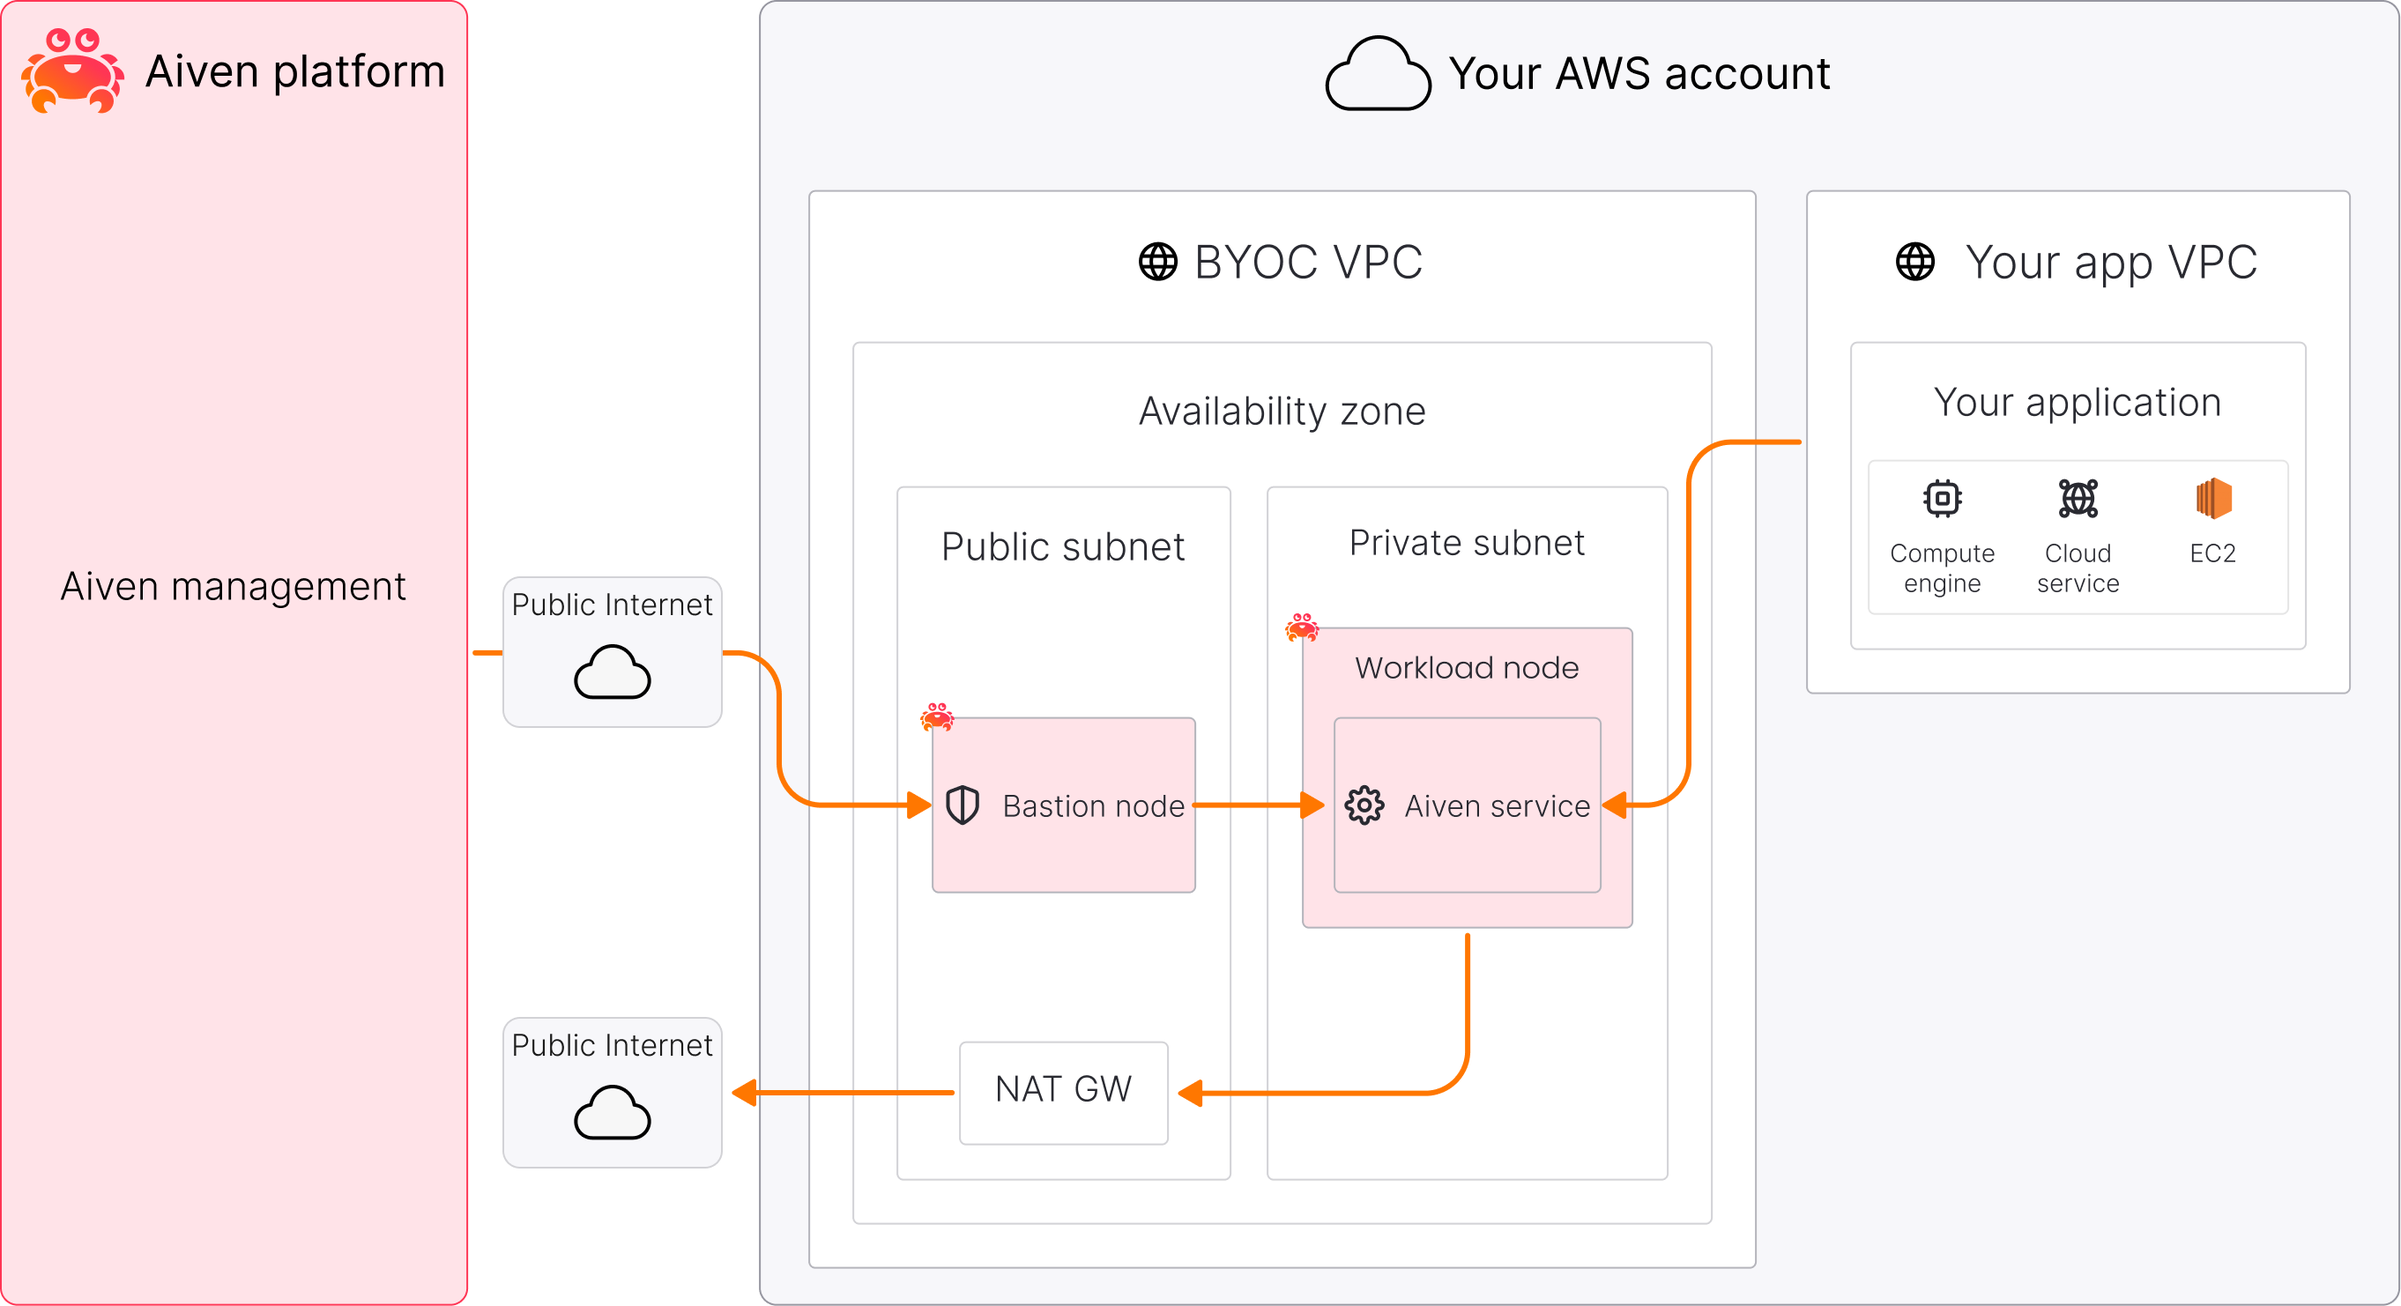
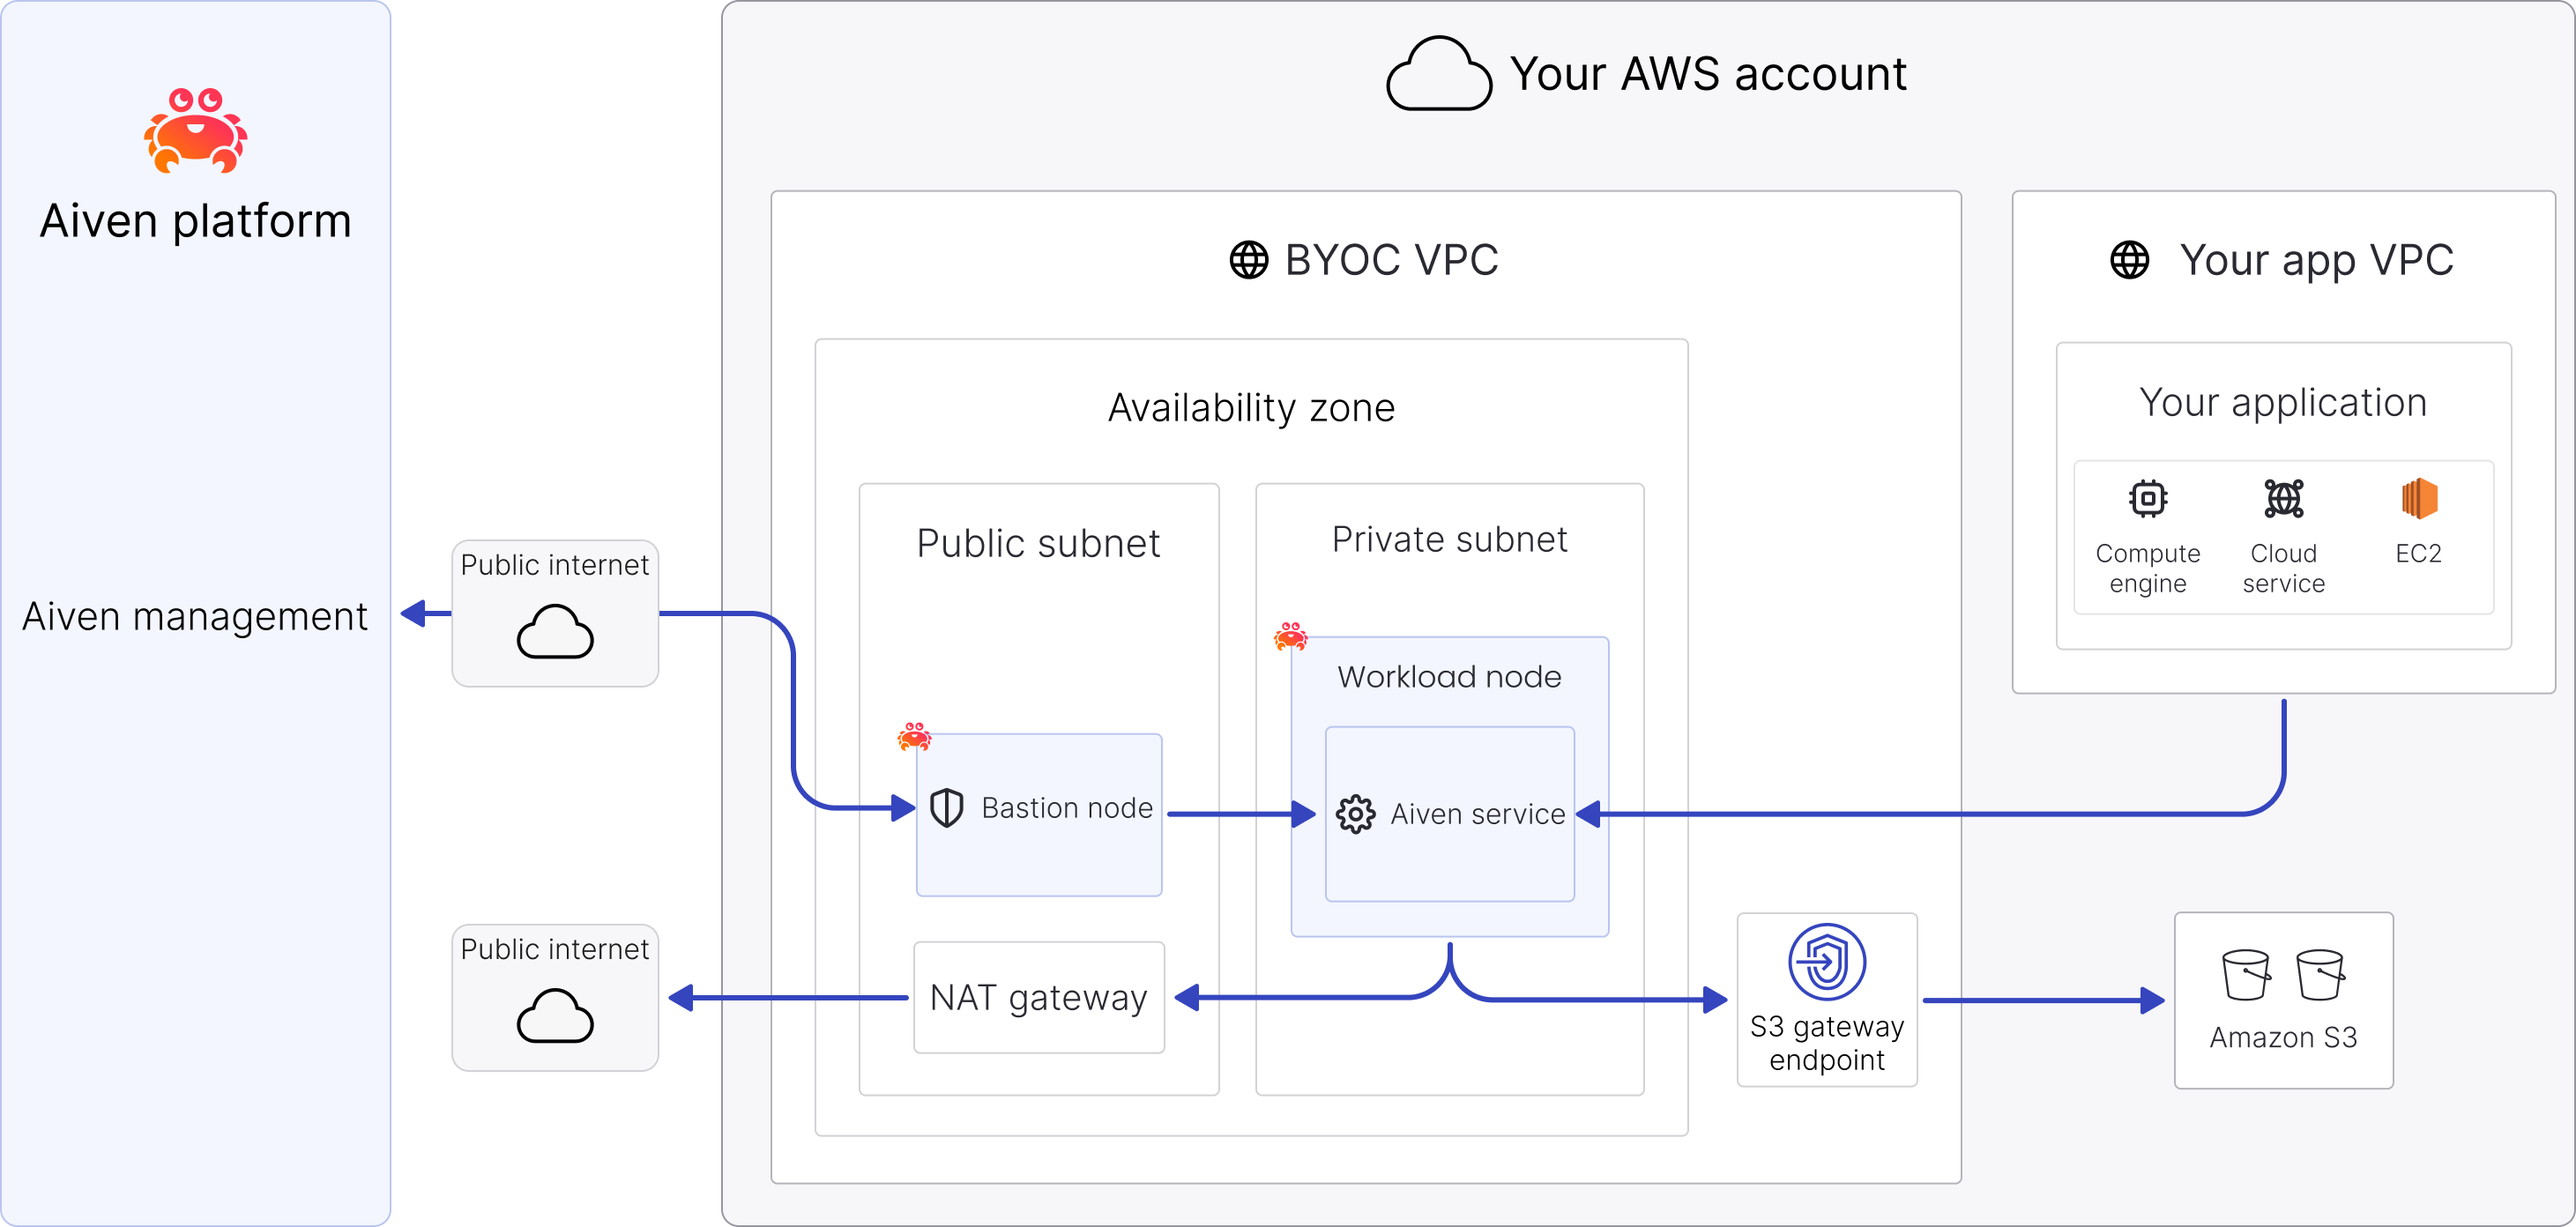
feat: AWS BYOC storage and backup improvements (#677)

diff --git a/sidebars.ts b/sidebars.ts
@@ -370,6 +370,7 @@ const sidebars: SidebarsConfig = {
             'platform/howto/byoc/assign-project-custom-cloud',
             'platform/howto/byoc/add-customer-info-custom-cloud',
             'platform/howto/byoc/tag-custom-cloud-resources',
+            'platform/howto/byoc/store-data',
             'platform/howto/byoc/rename-custom-cloud',
             'platform/howto/byoc/download-infrastructure-template',
             'platform/howto/byoc/delete-custom-cloud',

diff --git a/docs/platform/howto/byoc/store-data.md b/docs/platform/howto/byoc/store-data.md
@@ -1,0 +1,69 @@
+---
+title: Use tiered storage for AWS BYOC services
+sidebar_label: AWS BYOC tiered storage
+limited: true
+---
+
+import ConsoleLabel from "@site/src/components/ConsoleIcons";
+import RelatedPages from "@site/src/components/RelatedPages";
+
+AWS BYOC environments use the tiered storage capability for data allocation. Cold data in your AWS custom cloud is stored in your AWS cloud account.
+
+:::note
+This is a
+[limited availability feature](/docs/platform/concepts/service-and-feature-releases#limited-availability-).
+:::
+
+AWS [BYOC](/docs/platform/concepts/byoc) environments allow using tiered storage to store
+data. The tiered storage is a data allocation mechanism for improved efficiency and cost
+optimization of data management. When enabled, tiered storage allows moving data
+automatically between hot storage (for frequently accessed, critical, and often updated
+data) and cold storage (for rarely accessed, static, or archived data).
+
+Cold data of AWS BYOC-hosted services is stored in object storage in your AWS cloud
+account. One bucket is created per custom cloud.
+
+:::important
+
+- AWS [BYOC](/docs/platform/concepts/byoc) tiered storage is only supported for
+  [Aiven for Apache Kafka](/docs/products/kafka/howto/kafka-tiered-storage-get-started) and
+  [Aiven for ClickHouse](/docs/products/clickhouse/concepts/clickhouse-tiered-storage).
+- Tiered storage enabled on non-BYOC services is owned by Aiven and as such doesn't allow
+  to store cold data in your own cloud account.
+- Non-BYOC services with Aiven-owned tiered storage cannot be migrated to BYOC.
+
+:::
+
+To use tiered storage in an AWS BYOC-hosted service, tiered storage needs to be enabled both
+[in your custom cloud](/docs/platform/howto/byoc/store-data#enable-tiered-storage-in-an-aws-custom-cloud)
+and
+[in the BYOC-hosted service](/docs/platform/howto/byoc/store-data#enable-tiered-storage-on-a-service).
+
+## Enable tiered storage in an AWS custom cloud
+
+[Contact the Aiven support team](mailto:support@aiven.io) to request enabling tiered
+storage in your AWS custom cloud.
+
+## Enable tiered storage on a service
+
+### Prerequisites
+
+- At least one AWS [custom cloud](/docs/platform/howto/byoc/create-cloud/create-custom-cloud)
+- At least one [Aiven-managed service](/docs/platform/howto/create_new_service), either
+  Aiven for Apache Kafka® or Aiven for ClickHouse®, hosted in a custom cloud
+
+  :::note
+  If your Aiven-managed service is not hosted in an AWS custom cloud, you can
+  [migrate it](/docs/platform/howto/byoc/manage-byoc-service#migrate-an-existing-service-to-a-custom-cloud).
+  :::
+
+### Activate tiered storage
+
+- [Enable for Aiven for Apache Kafka](/docs/products/kafka/howto/enable-kafka-tiered-storage)
+- [Enable for Aiven for ClickHouse](/docs/products/clickhouse/howto/enable-tiered-storage)
+
+<RelatedPages/>
+
+-   [Bring your own cloud networking and security](/docs/platform/howto/byoc/networking-security)
+-   [View the status of a custom cloud](/docs/platform/howto/byoc/view-custom-cloud-status)
+-   [Manage services hosted in custom clouds](/docs/platform/howto/byoc/manage-byoc-service)

diff --git a/docs/platform/concepts/byoc.md b/docs/platform/concepts/byoc.md
@@ -12,6 +12,7 @@ import byocGcpPrivate from "@site/static/images/content/figma/byoc-gcp-private.p
 import byocGcpPublic from "@site/static/images/content/figma/byoc-gcp-public.png";
 import byocHowItWorks from "@site/static/images/content/figma/byoc-how-it-works.png";
 import RelatedPages from "@site/src/components/RelatedPages";
+import LimitedBadge from "@site/src/components/Badges/LimitedBadge";
 
 Bring your own cloud (BYOC) allows you to use your own cloud infrastructure instead of relying on the Aiven-managed infrastructure.
 
@@ -142,6 +143,11 @@ to work properly (supporting HA signaling to the Aiven management node and RPM d
 from Aiven repositories).
 :::
 
+<LimitedBadge/> Object storage in your AWS cloud account is where your service's
+[backups](/docs/platform/concepts/byoc#byoc-service-backups) and
+[cold data](/docs/platform/howto/byoc/store-data) are stored using
+two S3 buckets.
+
 </TabItem>
 <TabItem value="2" label="AWS public">
 
@@ -155,6 +161,12 @@ through the public internet: the Aiven control plane connects to the nodes
 using the public address, and the Aiven management plane can access the service VMs
 directly. To restrict access to your service, you can use the
 [IP filter](/docs/platform/howto/restrict-access).
+
+<LimitedBadge/> Object storage in your AWS cloud account is where your service's
+[backups](/docs/platform/concepts/byoc#byoc-service-backups) and
+[cold data](/docs/platform/howto/byoc/store-data) are stored using
+two S3 buckets.
+
 </TabItem>
 <TabItem value="3" label="Google Cloud private">
 
@@ -197,6 +209,7 @@ through the public internet: the Aiven control plane connects to the nodes
 using the public address, and the Aiven management plane can access the service VMs
 directly. To restrict access to your service, you can use the
 [IP filter](/docs/platform/howto/restrict-access).
+
 </TabItem>
 </Tabs>
 
@@ -209,10 +222,11 @@ All Aiven communication is encrypted.
 Depending on the BYOC service, Aiven takes
 [regular service backups](/docs/platform/concepts/service_backups) to enable forking, point
 in time recovery (PITR), and disaster recovery.
-These backups by default do not reside in your cloud. If there is a
-requirement to have all backups in your own cloud account, it's still possible.
-To accomplish this, Aiven needs read-write permissions to access the object storage on
-your cloud account.
+
+<LimitedBadge/>
+If you
+[enable tiered storage](/docs/platform/howto/byoc/store-data#enable-tiered-storage-in-an-aws-custom-cloud),
+AWS BYOC service backups are stored in Amazon S3 buckets within your AWS account.
 
 :::important
 
@@ -233,4 +247,3 @@ Aiven deployment model.
 -   [Bring your own cloud networking and security](/docs/platform/howto/byoc/networking-security)
 -   [Enable bring your own cloud (BYOC)](/docs/platform/howto/byoc/enable-byoc)
 -   [Create a custom cloud in Aiven](/docs/platform/howto/byoc/create-cloud/create-custom-cloud)
--   [Manage services hosted in custom clouds](/docs/platform/howto/byoc/manage-byoc-service)

diff --git a/docs/platform/howto/byoc/create-cloud/create-aws-custom-cloud.md b/docs/platform/howto/byoc/create-cloud/create-aws-custom-cloud.md
@@ -5,6 +5,7 @@ keywords: [AWS, Amazon Web Services, byoc, bring your own cloud, custom cloud]
 ---
 
 import ConsoleLabel from "@site/src/components/ConsoleIcons";
+import LimitedBadge from "@site/src/components/Badges/LimitedBadge";
 import Tabs from '@theme/Tabs';
 import TabItem from '@theme/TabItem';
 import RelatedPages from "@site/src/components/RelatedPages";
@@ -432,7 +433,7 @@ In the **Create custom cloud** wizard:
     -   Custom cloud name
     -   [Infrastructure tags](/docs/platform/howto/byoc/tag-custom-cloud-resources)
 
-    Click **Next**.
+1.  Click **Next**.
 
 1.  Specify deployment and storage details:
 
@@ -444,7 +445,7 @@ In the **Create custom cloud** wizard:
         - Public model, which allows the Aiven control plane to connect to the service
           nodes via the public internet.
 
-    -   CIDR
+    -   CIDR for BYOC resources
 
         The **CIDR** block defines the IP address range of the VPC that
         Aiven creates in your own cloud account. Any Aiven service created in
@@ -479,7 +480,21 @@ In the **Create custom cloud** wizard:
             cannot change the BYOC VPC CIDR block after your custom
             cloud is created.
 
-    Click **Generate template**.
+    -   Object storage <LimitedBadge/>
+
+        By default, the following data is stored in the BYOC object storage in your own
+        cloud account:
+
+        -   [Cold data managed by the service](/docs/platform/howto/byoc/store-data)
+        -   [Backups of the service](/docs/platform/concepts/byoc#byoc-service-backups)
+
+        :::note
+        - Data is stored in your BYOC object storage using one S3 bucket per custom cloud.
+        - Permissions for S3 bucket management will be included in the Terraform
+          infrastructure template to be generated upon completing this step.
+        :::
+
+1.  Click **Generate template**.
 
 Your IaC Terraform template gets generated based on your inputs. You can
 view, copy, or download it. Now, you can use the template to

diff --git a/docs/platform/howto/byoc/create-cloud/create-google-custom-cloud.md b/docs/platform/howto/byoc/create-cloud/create-google-custom-cloud.md
@@ -112,7 +112,7 @@ In the **Create custom cloud** wizard:
     -   Custom cloud name
     -   [Infrastructure tags](/docs/platform/howto/byoc/tag-custom-cloud-resources)
 
-    Click **Next**.
+1.  Click **Next**.
 
 1.  Specify deployment and storage details:
 
@@ -124,7 +124,7 @@ In the **Create custom cloud** wizard:
         - Public model, which allows the Aiven control plane to connect to the service
           nodes via the public internet.
 
-    -   CIDR
+    -   CIDR for BYOC resources
 
         The **CIDR** block defines the IP address range of the VPC that
         Aiven creates in your own cloud account. Any Aiven service created in
@@ -159,7 +159,7 @@ In the **Create custom cloud** wizard:
             cannot change the BYOC VPC CIDR block after your custom
             cloud is created.
 
-    Click **Generate template**.
+1.  Click **Generate template**.
 
 Your infrastructure Terraform template gets generated based on your inputs. You can
 view, copy, or download it. Now, you can use the template to acquire a privilege-bearing

diff --git a/docs/platform/concepts/service_backups.md b/docs/platform/concepts/service_backups.md
@@ -491,3 +491,9 @@ to set the start time for backups.
 :::note
 When `backup_hour` is set, the backup frequency changes from 12 hours to 24 hours.
 :::
+
+## BYOC service backups
+
+Learn about
+[backups for services hosted in custom clouds](/docs/platform/concepts/byoc#byoc-service-backups)
+or [bring your own cloud (BYOC)](/docs/platform/concepts/byoc) environments.
